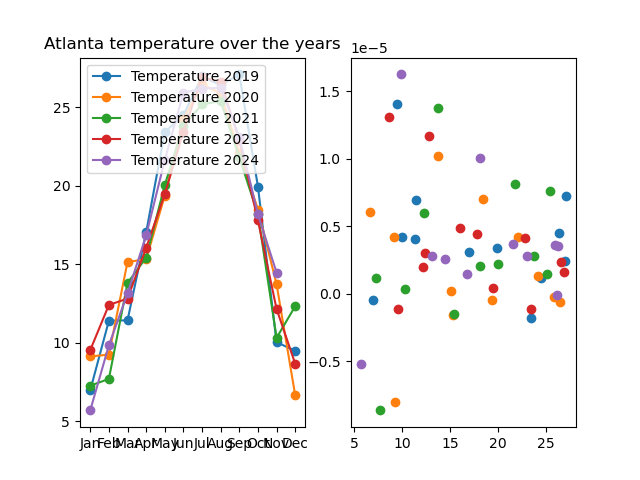
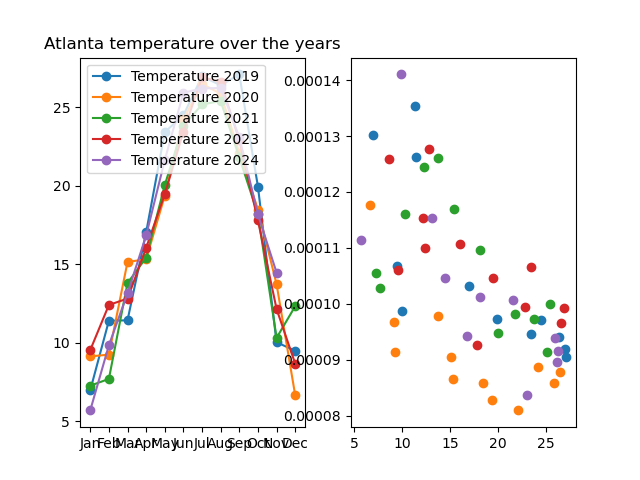
good png for temp cor

diff --git a/airport.py b/airport.py
@@ -1017,13 +1017,13 @@ def airport_emission(location):
     plt.legend(loc = 'upper left')
     plt.title(f'{location} temperature over the years')
     ax = plt.subplot(1, 2, 2)
-    plt.scatter(maanden_2019['temperature'], netto_monthly_avg_2019, label='2019')
-    plt.scatter(maanden_2020['temperature'], netto_monthly_avg_2020, label='2020')
-    plt.scatter(maanden_2021['temperature'], netto_monthly_avg_2021, label='2021')
-    plt.scatter(maanden_2023['temperature'], netto_monthly_avg_2023, label='2023')
-    plt.scatter(maanden_2024['temperature'], netto_monthly_avg_2024.values[0:11], label='2024')
+    plt.scatter(maanden_2019['temperature'], monthly_avg_2019['Density'], label='2019')
+    plt.scatter(maanden_2020['temperature'], monthly_avg_2020['Density'], label='2020')
+    plt.scatter(maanden_2021['temperature'], monthly_avg_2021['Density'], label='2021')
+    plt.scatter(maanden_2023['temperature'], monthly_avg_2023['Density'], label='2023')
+    plt.scatter(maanden_2024['temperature'], monthly_avg_2024['Density'].values[0:11], label='2024')
 
     plt.savefig(f'{location}_temperature.png')
     plt.show()
 
-airport_emission(location="Atlanta")
+airport_emission(location="Paris")
